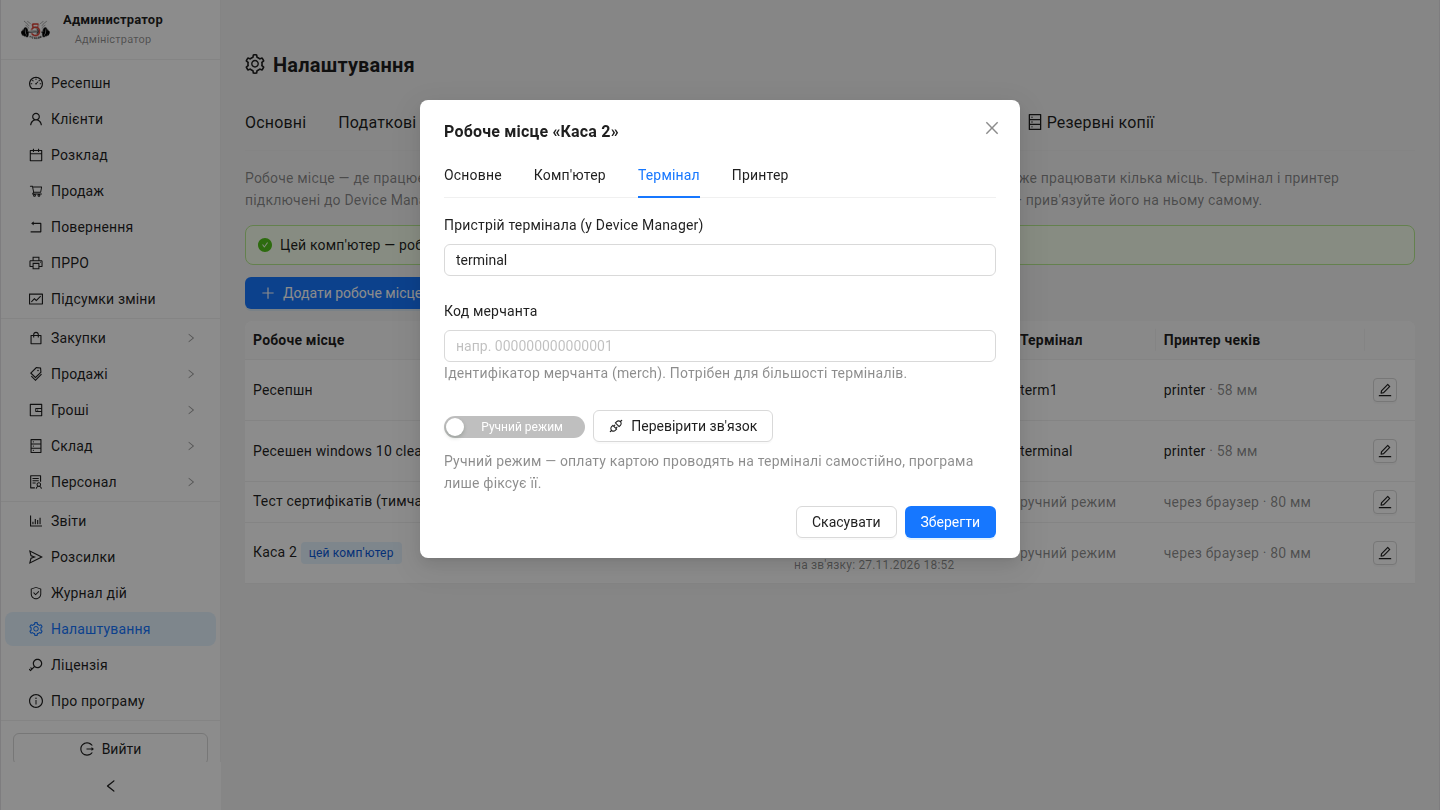
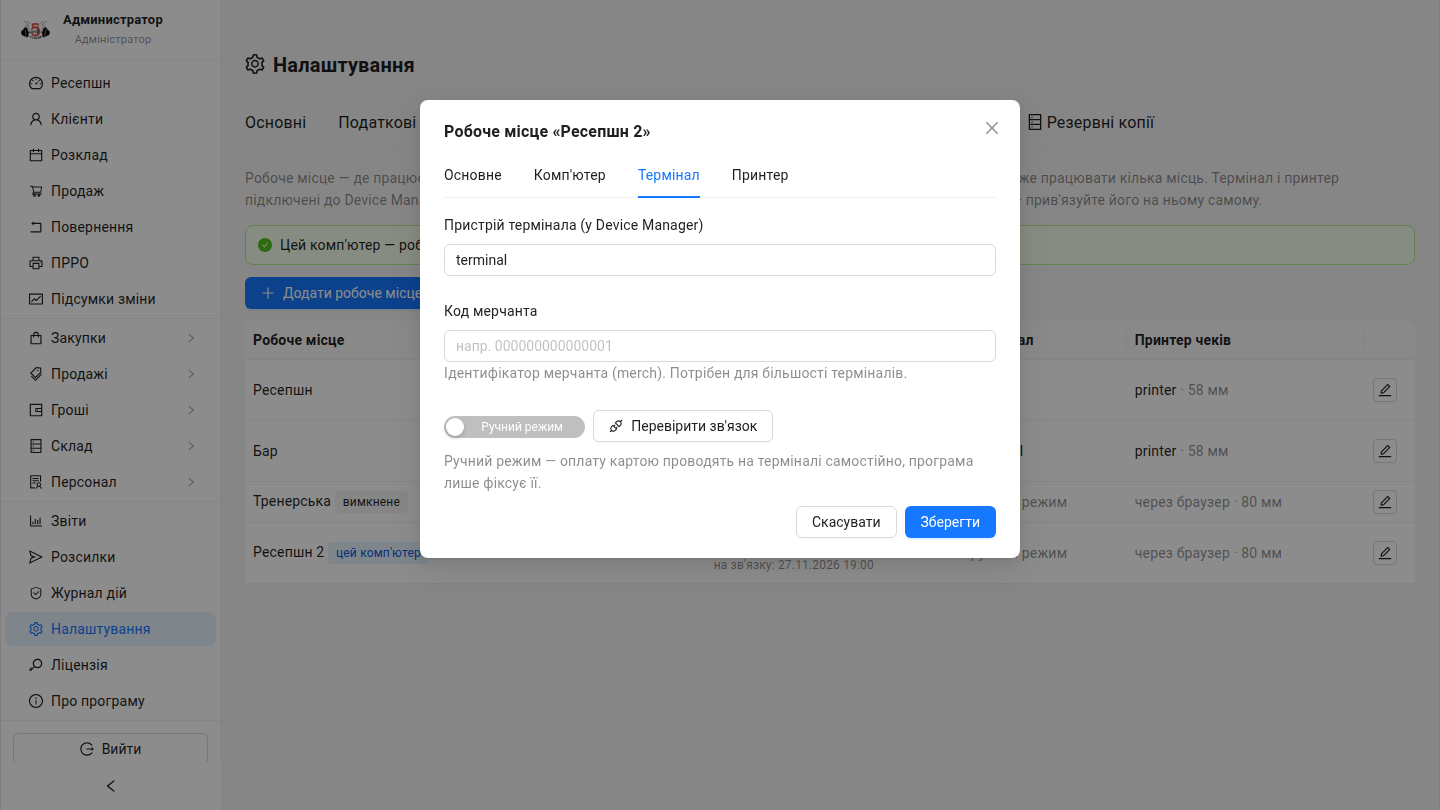
docs: скриншоти робочих місць і журналу дій без тестових даних

diff --git a/index.html b/index.html
@@ -942,7 +942,7 @@
 <h2 id="блок-25а-робочі-місця-каса-термінал-принтер">Блок 25а. Робочі місця (каса, термінал, принтер)</h2>
 <p><strong>Розділ:</strong> «Налаштування» → вкладка <strong>«Робочі місця»</strong> <em>(адміністратор)</em>.</p>
 <p><img src="screenshots/36-workstations.png" alt="Вкладка «Робочі місця»"></p>
-<p><strong>Робоче місце</strong> — це місце, де працює касир (напр. «Ресепшн», «Бар»). У кожного робочого місця:</p>
+<p><strong>Робоче місце</strong> — це місце, де працює касир (напр. «Ресепшн», «Бар», «Тренерська»). У кожного робочого місця:</p>
 <ul>
 <li><strong>своя каса (ПРРО)</strong> — на неї пробиваються чеки цього місця; на одній касі можуть працювати кілька місць;</li>
 <li><strong>свій банківський термінал і чековий принтер</strong> — підключені до Device Manager Вчасно.Каса на комп’ютері цього робочого місця;</li>
